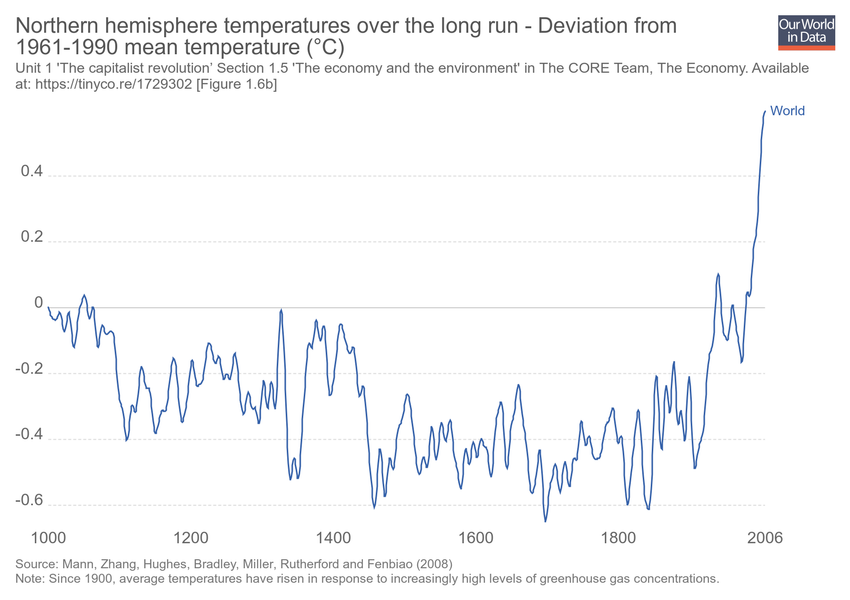
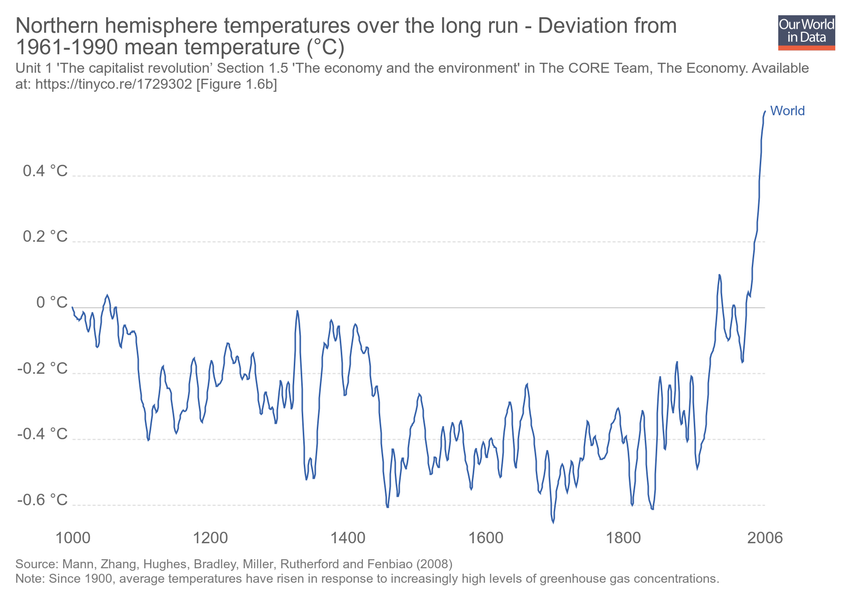
Updating chart northern-hemisphere-temperatures-over-the-long-run

diff --git a/grapher/northern-hemisphere-temperatures-over-the-long-run.html b/grapher/northern-hemisphere-temperatures-over-the-long-run.html
@@ -1,4 +1,4 @@
-<!doctype html><html><head><meta name="viewport" content="width=device-width, initial-scale=1" /><title>Northern hemisphere temperatures over the long run - Deviation from 1961-1990 mean temperature (°C) - Our World in Data</title><meta name="description" content="Unit 1 'The capitalist revolution’ Section 1.5 'The economy and the environment' in The CORE Team, The Economy. Available at: https://tinyco.re/1729302 [Figure 1.6b]" /><link rel="canonical" href="https://ourworldindata.org/grapher/northern-hemisphere-temperatures-over-the-long-run" /><meta property="fb:app_id" content="1149943818390250" /><meta property="og:url" content="https://ourworldindata.org/grapher/northern-hemisphere-temperatures-over-the-long-run" /><meta property="og:title" content="Northern hemisphere temperatures over the long run - Deviation from 1961-1990 mean temperature (°C)" /><meta property="og:description" content="Unit 1 'The capitalist revolution’ Section 1.5 'The economy and the environment' in The CORE Team, The Economy. Available at: https://tinyco.re/1729302 [Figure 1.6b]" /><meta property="og:image" content="https://ourworldindata.org/grapher/exports/northern-hemisphere-temperatures-over-the-long-run.png?v=7" /><meta property="og:image:width" content="850" /><meta property="og:image:height" content="600" /><meta property="og:site_name" content="Our World in Data" /><meta name="twitter:card" content="summary_large_image" /><meta name="twitter:site" content="@OurWorldInData" /><meta name="twitter:creator" content="@OurWorldInData" /><meta name="twitter:title" content="Northern hemisphere temperatures over the long run - Deviation from 1961-1990 mean temperature (°C)" /><meta name="twitter:description" content="Unit 1 'The capitalist revolution’ Section 1.5 'The economy and the environment' in The CORE Team, The Economy. Available at: https://tinyco.re/1729302 [Figure 1.6b]" /><meta name="twitter:image" content="https://ourworldindata.org/grapher/exports/northern-hemisphere-temperatures-over-the-long-run.png?v=7" /><style>
+<!doctype html><html><head><meta name="viewport" content="width=device-width, initial-scale=1" /><title>Northern hemisphere temperatures over the long run - Deviation from 1961-1990 mean temperature (°C) - Our World in Data</title><meta name="description" content="Unit 1 'The capitalist revolution’ Section 1.5 'The economy and the environment' in The CORE Team, The Economy. Available at: https://tinyco.re/1729302 [Figure 1.6b]" /><link rel="canonical" href="https://ourworldindata.org/grapher/northern-hemisphere-temperatures-over-the-long-run" /><meta property="fb:app_id" content="1149943818390250" /><meta property="og:url" content="https://ourworldindata.org/grapher/northern-hemisphere-temperatures-over-the-long-run" /><meta property="og:title" content="Northern hemisphere temperatures over the long run - Deviation from 1961-1990 mean temperature (°C)" /><meta property="og:description" content="Unit 1 'The capitalist revolution’ Section 1.5 'The economy and the environment' in The CORE Team, The Economy. Available at: https://tinyco.re/1729302 [Figure 1.6b]" /><meta property="og:image" content="https://ourworldindata.org/grapher/exports/northern-hemisphere-temperatures-over-the-long-run.png?v=8" /><meta property="og:image:width" content="850" /><meta property="og:image:height" content="600" /><meta property="og:site_name" content="Our World in Data" /><meta name="twitter:card" content="summary_large_image" /><meta name="twitter:site" content="@OurWorldInData" /><meta name="twitter:creator" content="@OurWorldInData" /><meta name="twitter:title" content="Northern hemisphere temperatures over the long run - Deviation from 1961-1990 mean temperature (°C)" /><meta name="twitter:description" content="Unit 1 'The capitalist revolution’ Section 1.5 'The economy and the environment' in The CORE Team, The Economy. Available at: https://tinyco.re/1729302 [Figure 1.6b]" /><meta name="twitter:image" content="https://ourworldindata.org/grapher/exports/northern-hemisphere-temperatures-over-the-long-run.png?v=8" /><style>
         html, body {
             height: 100%;
             margin: 0;
@@ -20,8 +20,8 @@
         }
     </style><noscript><style>
                     figure { display: none !important; }
-                </style></noscript><link rel="stylesheet" href="https://ourworldindata.org/grapher/assets/commons.bundle.397229a8467cf53bfc99.css" /><link rel="preload" href="/grapher/data/variables/97945.json?v=7" as="fetch" crossorigin /></head><body class="singleChart"><figure data-grapher-src="/grapher/northern-hemisphere-temperatures-over-the-long-run"></figure><noscript id="fallback"><img src="/grapher/exports/northern-hemisphere-temperatures-over-the-long-run.svg" /><p>Interactive visualization requires JavaScript</p></noscript><script src="https://cdn.polyfill.io/v2/polyfill.min.js?features=es6,fetch"></script><script src="https://ourworldindata.org/grapher/assets/commons.bundle.397229a8467cf53bfc99.js"></script><script src="https://ourworldindata.org/grapher/assets/charts.bundle.397229a8467cf53bfc99.js"></script><script>
-        var jsonConfig = {"id":3014,"map":{"projection":"World","colorSchemeLabels":[],"colorSchemeValues":[],"customNumericColors":[],"customCategoryColors":{},"customCategoryLabels":{},"customHiddenCategories":{}},"tab":"chart","note":"Since 1900, average temperatures have risen in response to increasingly high levels of greenhouse gas concentrations.","slug":"northern-hemisphere-temperatures-over-the-long-run","type":"LineChart","title":"Northern hemisphere temperatures over the long run - Deviation from 1961-1990 mean temperature (°C)","xAxis":{"scaleType":"linear"},"yAxis":{"min":0,"scaleType":"linear"},"version":7,"subtitle":"Unit 1 'The capitalist revolution’ Section 1.5 'The economy and the environment' in The CORE Team, The Economy. Available at: https://tinyco.re/1729302 [Figure 1.6b]","hasMapTab":false,"stackMode":"absolute","dimensions":[{"display":{},"property":"y","variableId":97945}],"hasChartTab":true,"isPublished":true,"selectedData":[{"index":0,"entityId":355}],"internalNotes":"core-econ.org","addCountryMode":"add-country"};
+                </style></noscript><link rel="stylesheet" href="https://ourworldindata.org/grapher/assets/commons.bundle.397229a8467cf53bfc99.css" /><link rel="preload" href="/grapher/data/variables/97945.json?v=8" as="fetch" crossorigin /></head><body class="singleChart"><figure data-grapher-src="/grapher/northern-hemisphere-temperatures-over-the-long-run"></figure><noscript id="fallback"><img src="/grapher/exports/northern-hemisphere-temperatures-over-the-long-run.svg" /><p>Interactive visualization requires JavaScript</p></noscript><script src="https://cdn.polyfill.io/v2/polyfill.min.js?features=es6,fetch"></script><script src="https://ourworldindata.org/grapher/assets/commons.bundle.397229a8467cf53bfc99.js"></script><script src="https://ourworldindata.org/grapher/assets/charts.bundle.397229a8467cf53bfc99.js"></script><script>
+        var jsonConfig = {"id":3014,"map":{"projection":"World","colorSchemeLabels":[],"colorSchemeValues":[],"customNumericColors":[],"customCategoryColors":{},"customCategoryLabels":{},"customHiddenCategories":{}},"tab":"chart","note":"Since 1900, average temperatures have risen in response to increasingly high levels of greenhouse gas concentrations.","slug":"northern-hemisphere-temperatures-over-the-long-run","type":"LineChart","title":"Northern hemisphere temperatures over the long run - Deviation from 1961-1990 mean temperature (°C)","xAxis":{"scaleType":"linear"},"yAxis":{"min":0,"scaleType":"linear"},"version":8,"subtitle":"Unit 1 'The capitalist revolution’ Section 1.5 'The economy and the environment' in The CORE Team, The Economy. Available at: https://tinyco.re/1729302 [Figure 1.6b]","hasMapTab":false,"stackMode":"absolute","dimensions":[{"display":{},"property":"y","variableId":97945}],"hasChartTab":true,"isPublished":true,"selectedData":[{"index":0,"entityId":355}],"internalNotes":"core-econ.org","addCountryMode":"add-country"};
         var figure = document.getElementsByTagName("figure")[0];
         try {
             window.App = {};
